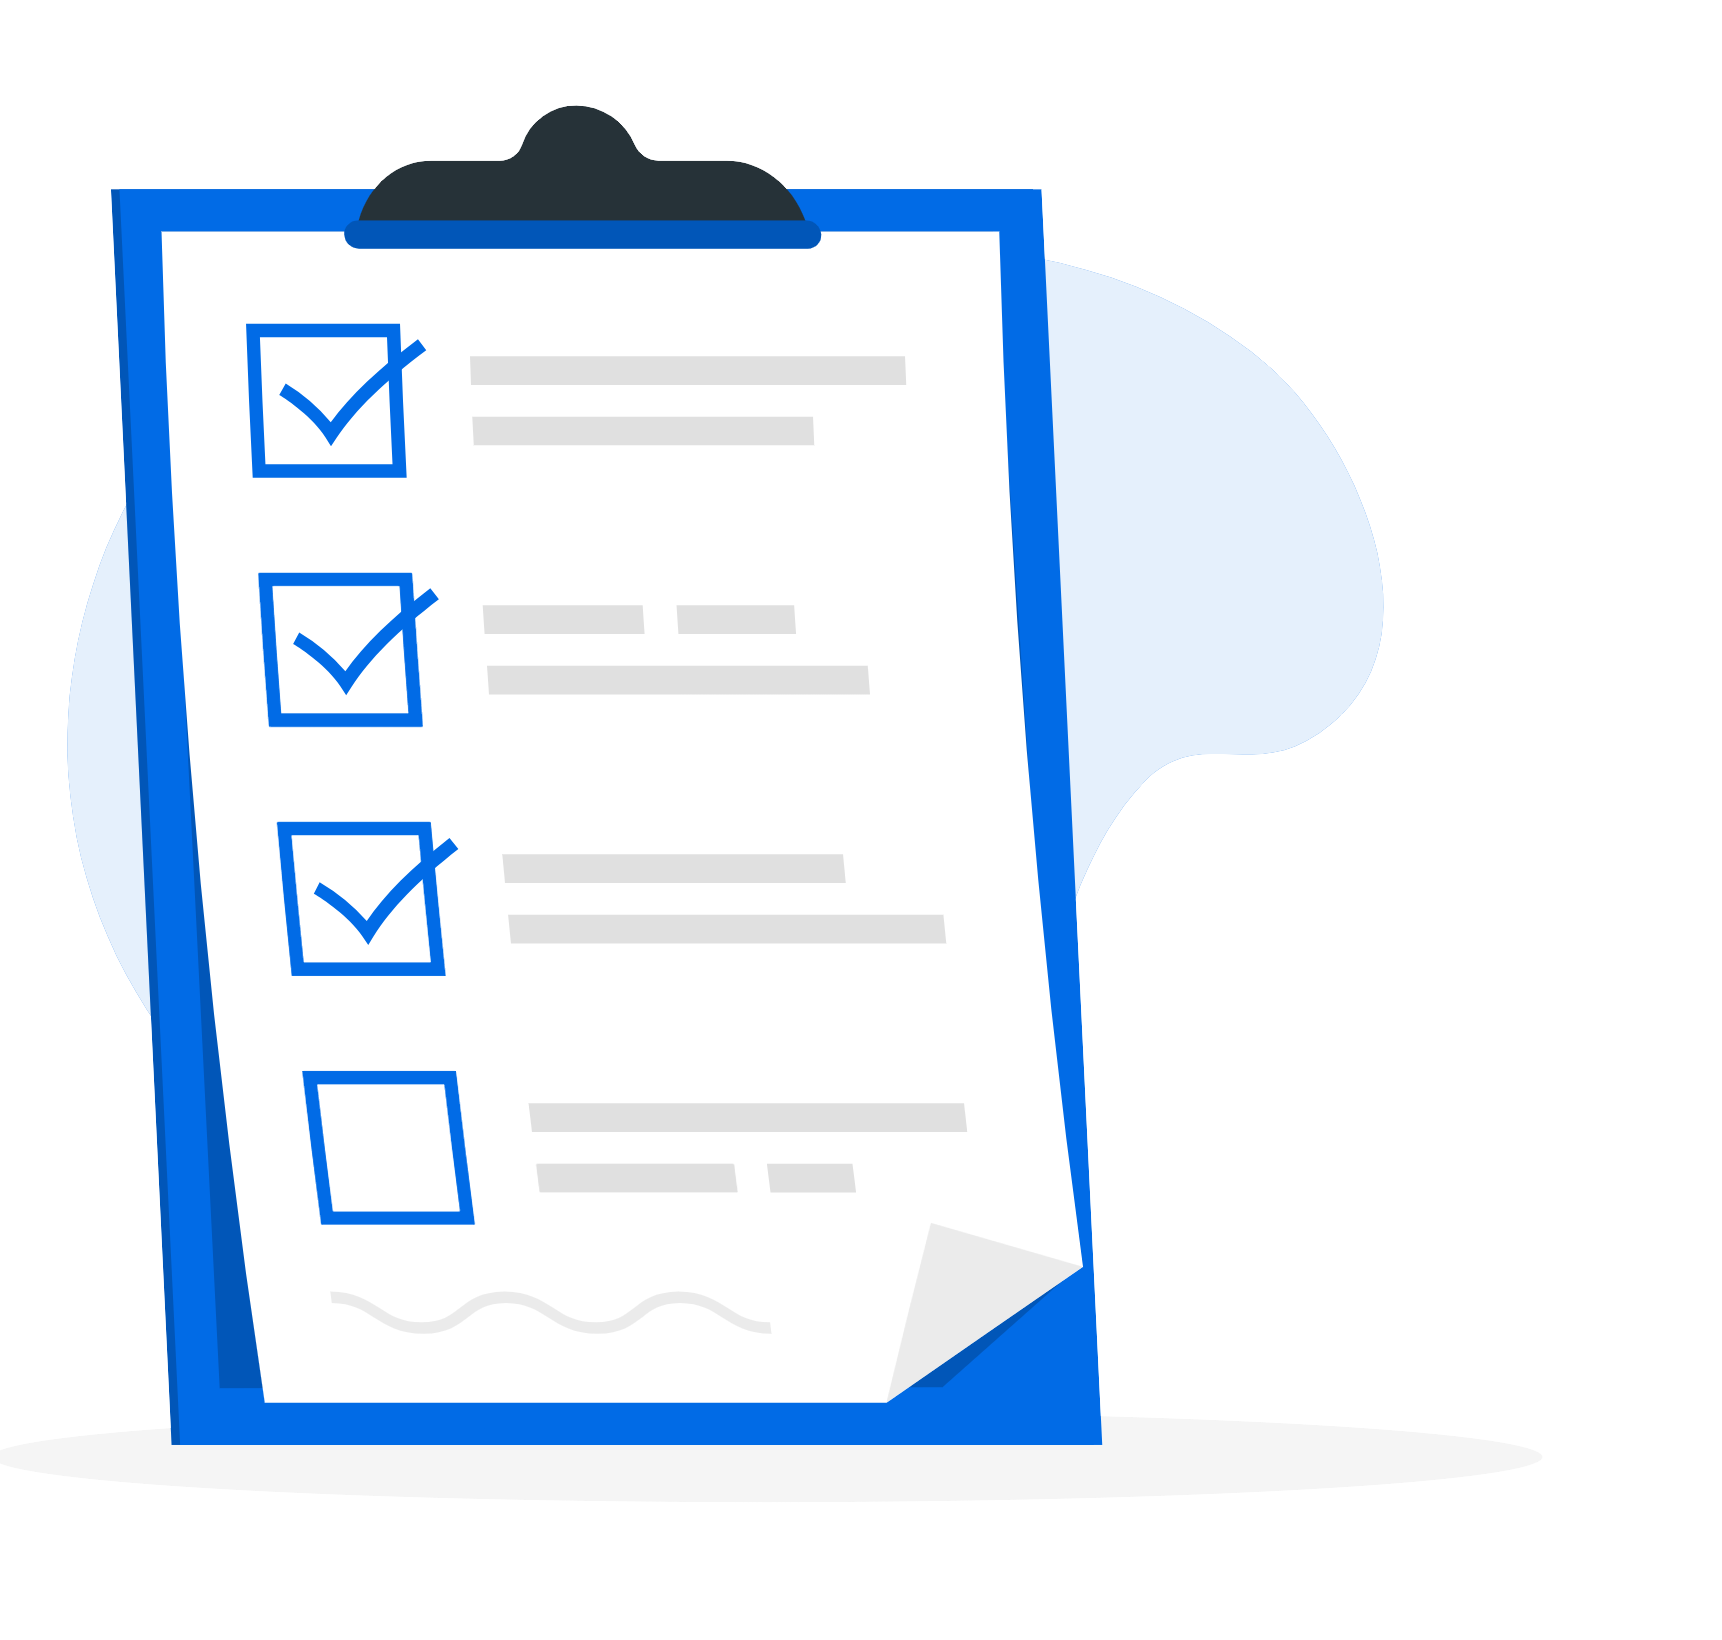
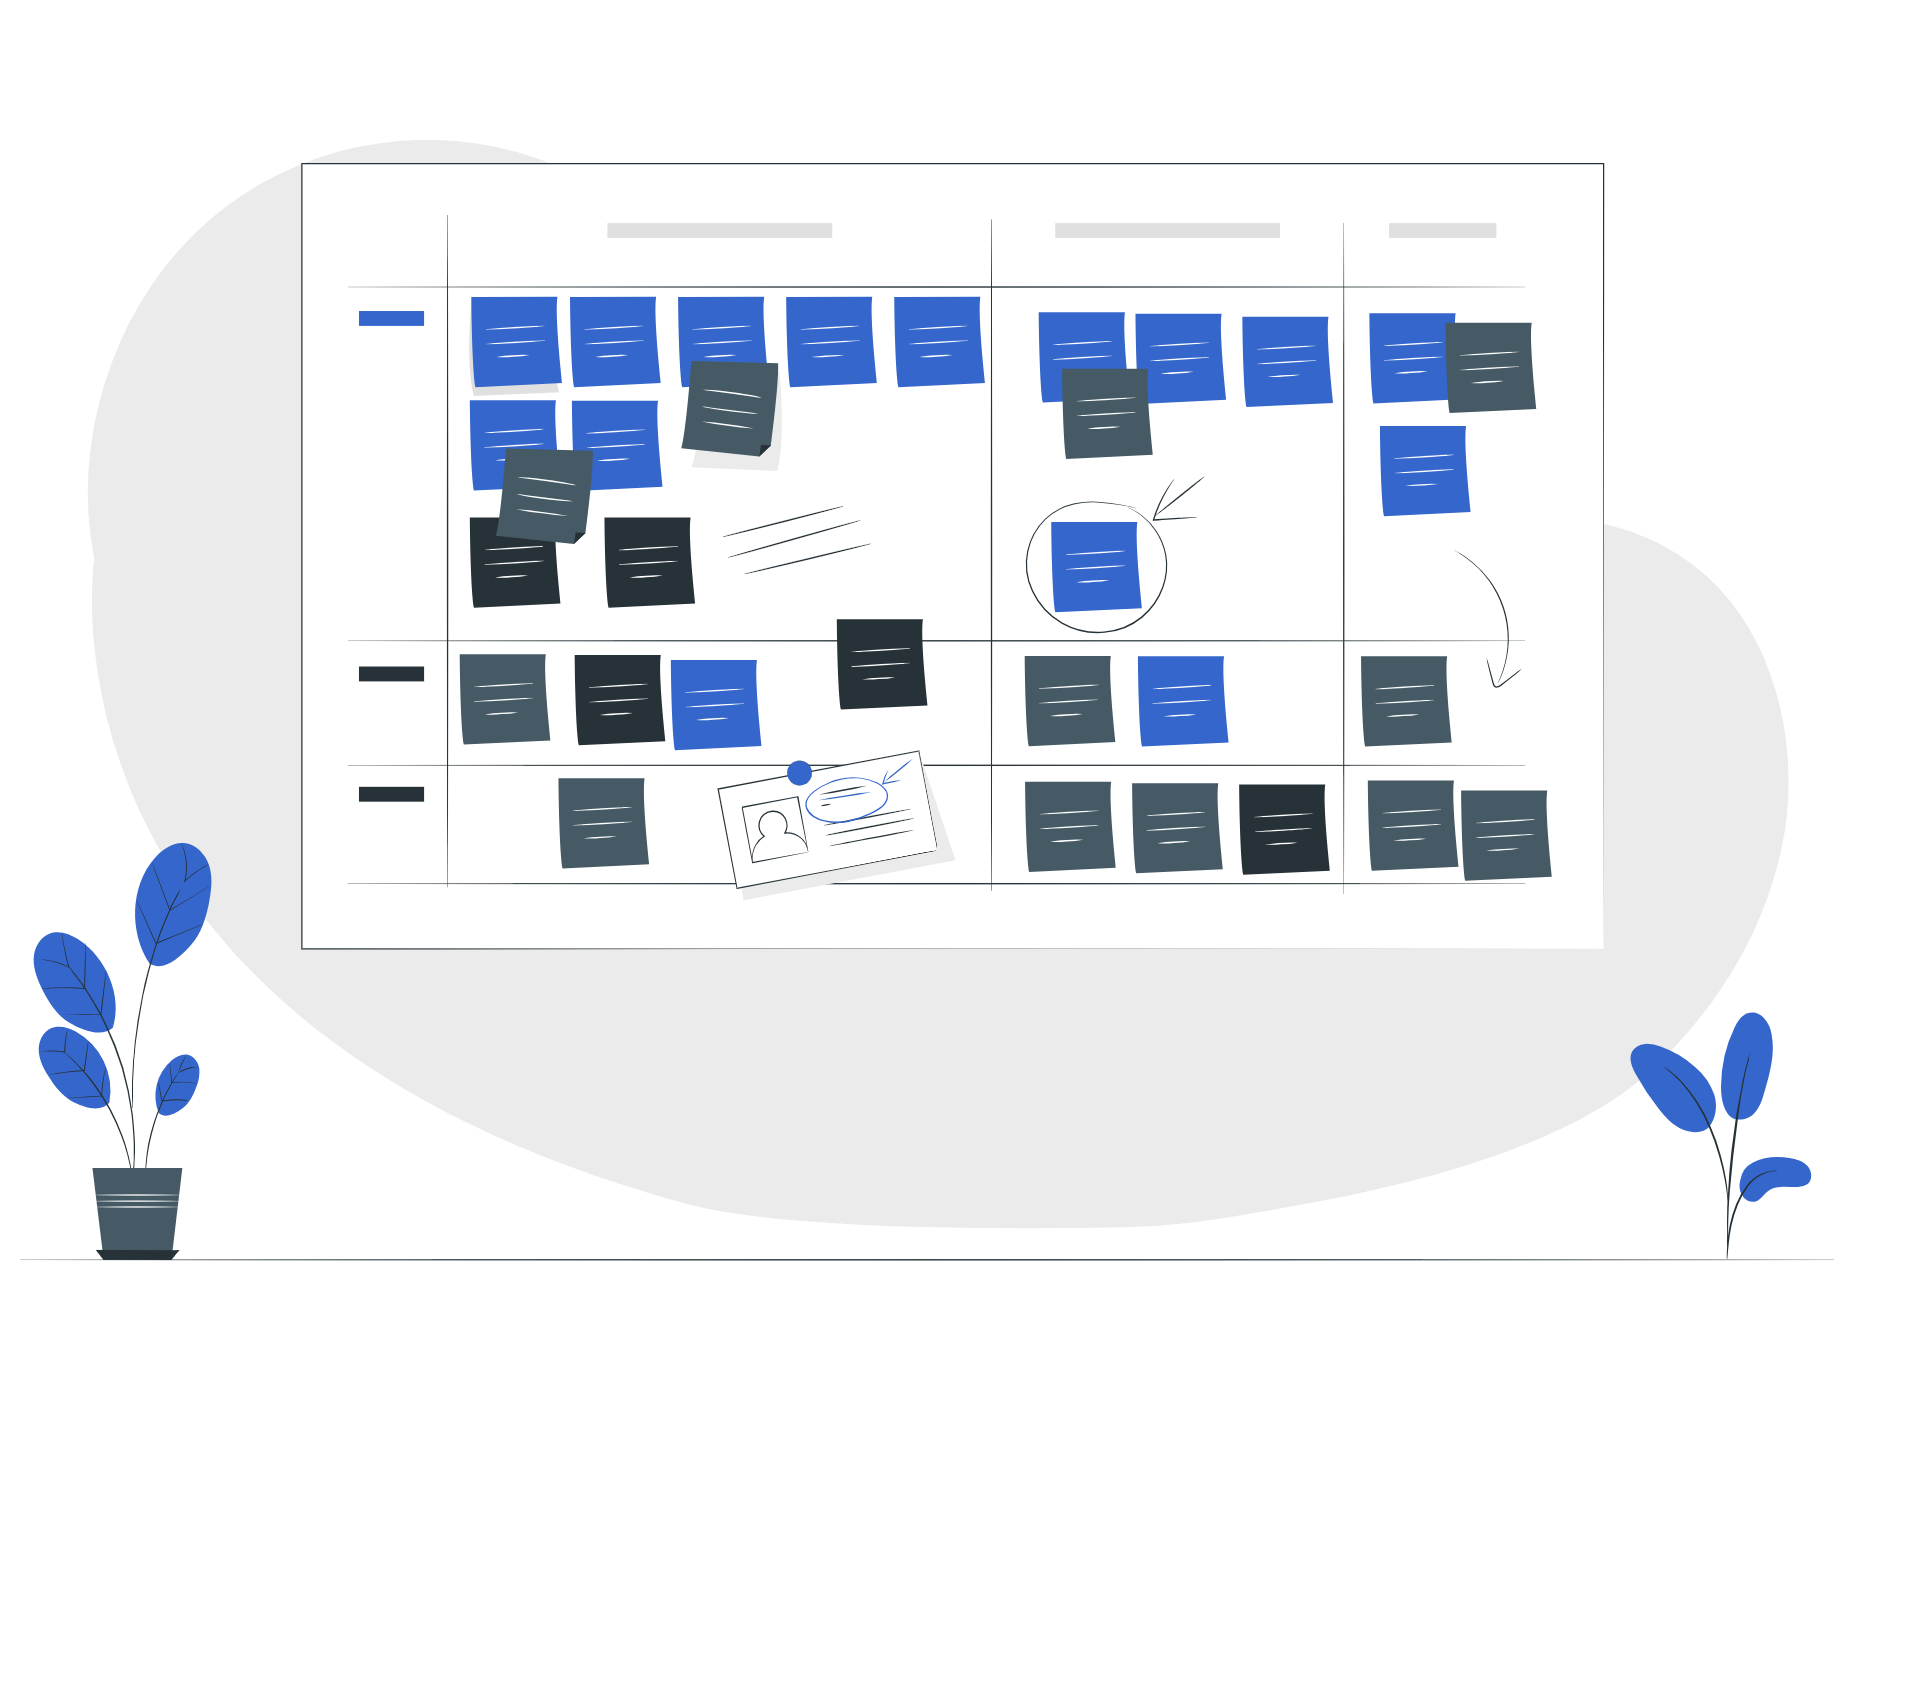
Updated card images and link order

diff --git a/content/_index.md b/content/_index.md
@@ -22,8 +22,8 @@ layout: hextra-home
 </div>
 
 <div class="hx:mb-6">
-{{< hextra/hero-button text="View Project Showcase" link="projects" >}}
 {{< hextra/hero-button text="View Documentation" link="docs" >}}
+{{< hextra/hero-button text="View Project Showcase" link="projects" >}}
 </div>
 
 <div class="hx:mt-6"></div>
@@ -33,16 +33,6 @@ layout: hextra-home
 {{< hextra/feature-grid >}}
 
   {{< hextra/feature-card
-    title="Project Showcase"
-    subtitle="Explore detailed descriptions and demonstrations of my major projects and full deployments."
-    class="hx:aspect-auto hx:md:aspect-[1.1/1] hx:max-md:min-h-[340px]"
-    link="projects"
-    image="/project.png"
-    imageClass="hx:top-[30%] hx:left-[24px] hx:w-[180%] hx:sm:w-[110%] hx:dark:opacity-80"
-    style="background: radial-gradient(ellipse at 60% 70%,rgb(177, 204, 240),hsla(0,0%,100%,0));"
-  >}}
-
-  {{< hextra/feature-card
     title="Technical Documentation"
     subtitle="Comprehensive guides, tutorials, and reference materials for various technologies and frameworks."
     class="hx:aspect-auto hx:md:aspect-[1.1/1] hx:max-md:min-h-[340px]"
@@ -50,6 +40,16 @@ layout: hextra-home
     image="/docs.png"
     imageClass="hx:top-[35%] hx:left-[31px] hx:w-[110%] hx:sm:w-[110%] hx:dark:opacity-80"
     style="background: radial-gradient(ellipse at 45% 80%,rgb(177, 204, 240),hsla(0,0%,100%,0));"
+  >}}
+
+  {{< hextra/feature-card
+    title="Project Showcase"
+    subtitle="Explore detailed descriptions and demonstrations of my major projects and full deployments."
+    class="hx:aspect-auto hx:md:aspect-[1.1/1] hx:max-md:min-h-[340px]"
+    link="projects"
+    image="/project.png"
+    imageClass="hx:top-[60%] hx:left-[22px] hx:w-[180%] hx:sm:w-[110%] hx:dark:opacity-80"
+    style="background: radial-gradient(ellipse at 60% 70%,rgb(177, 204, 240),hsla(0,0%,100%,0));"
   >}}
 
   {{< hextra/feature-card
